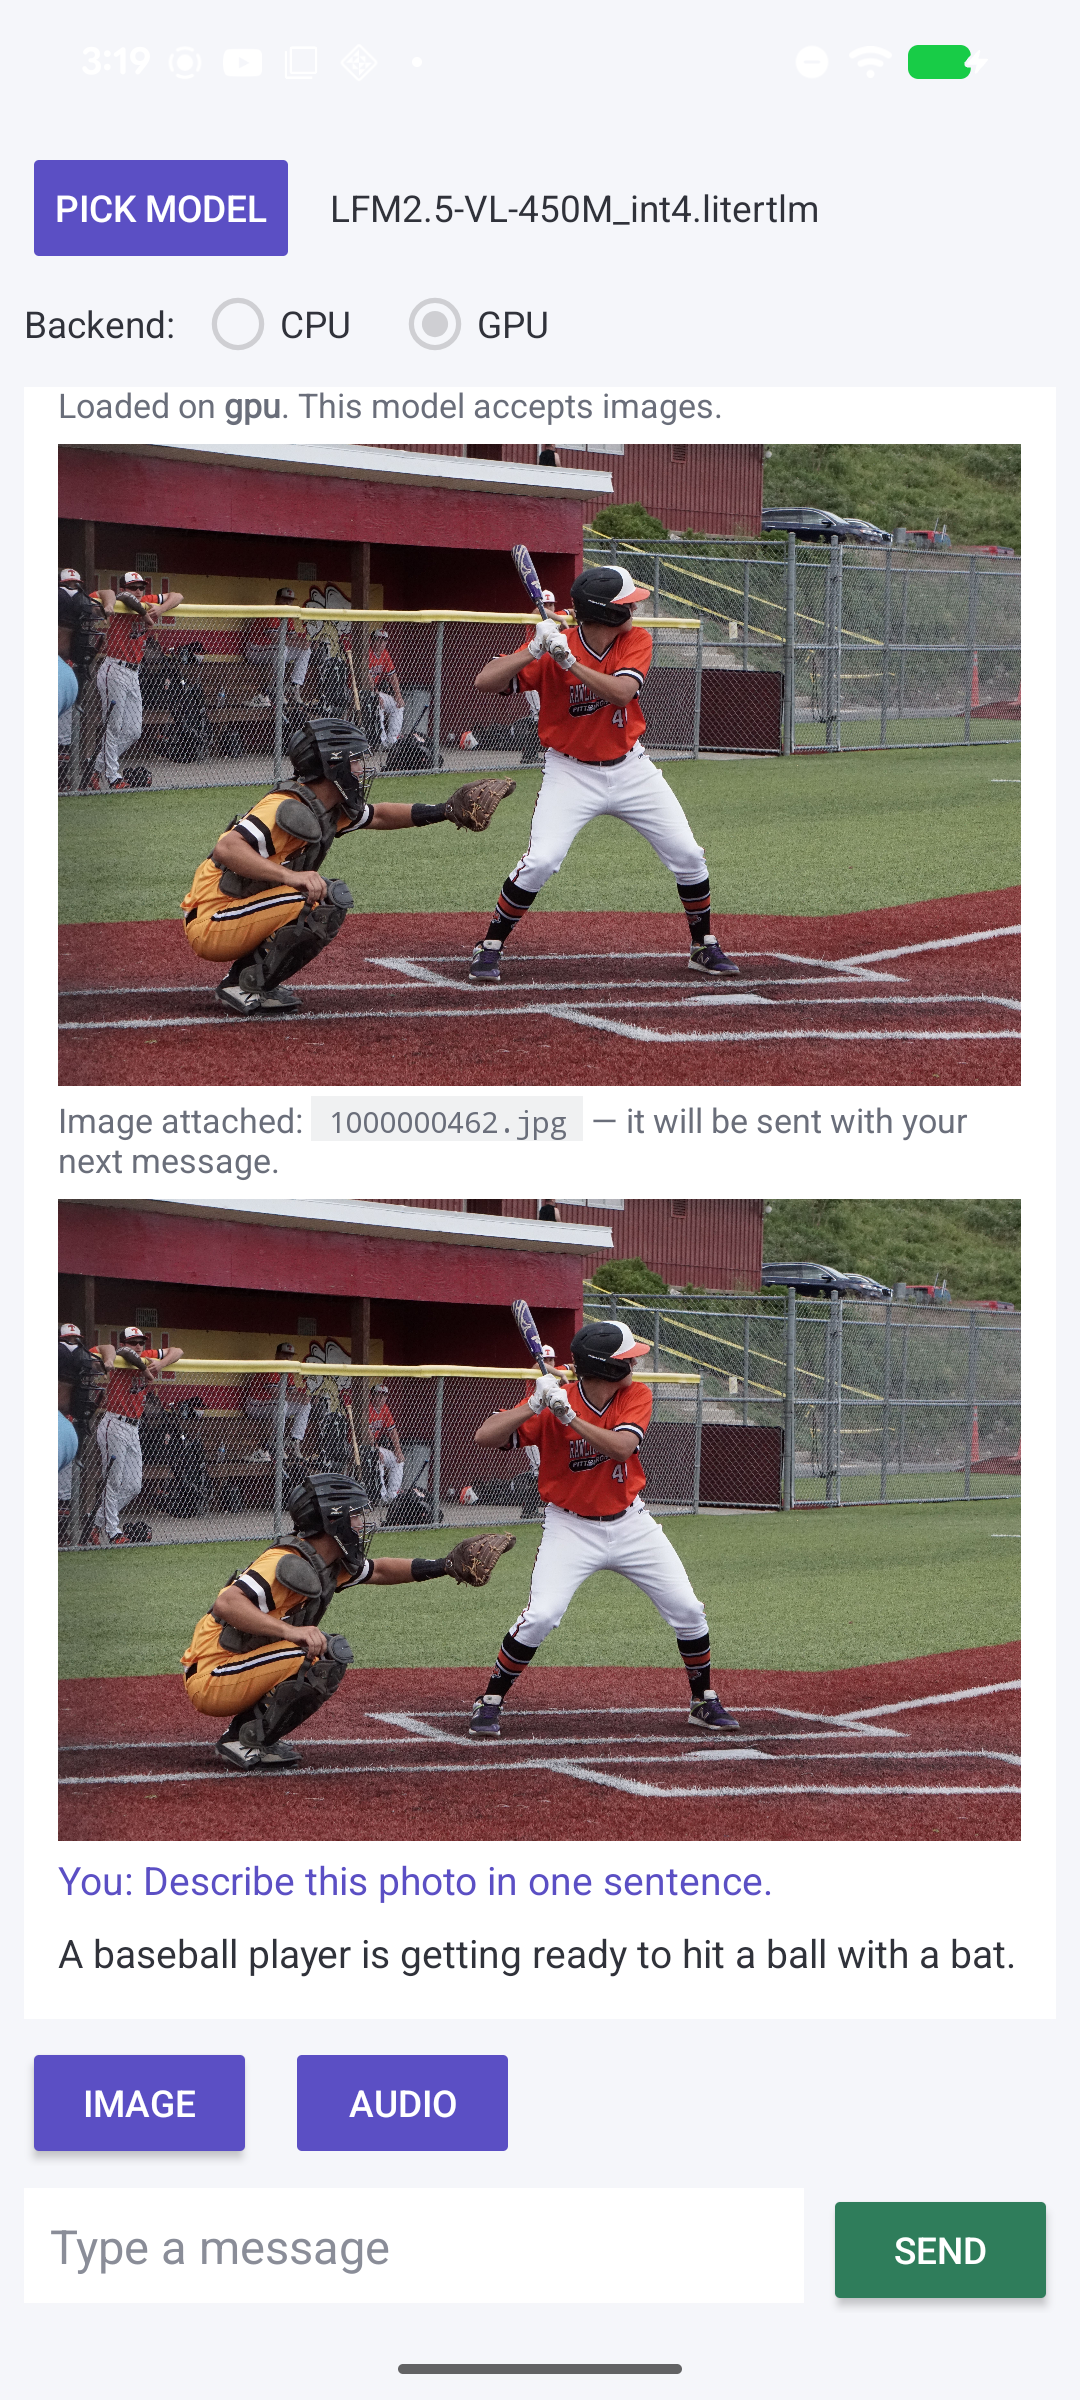
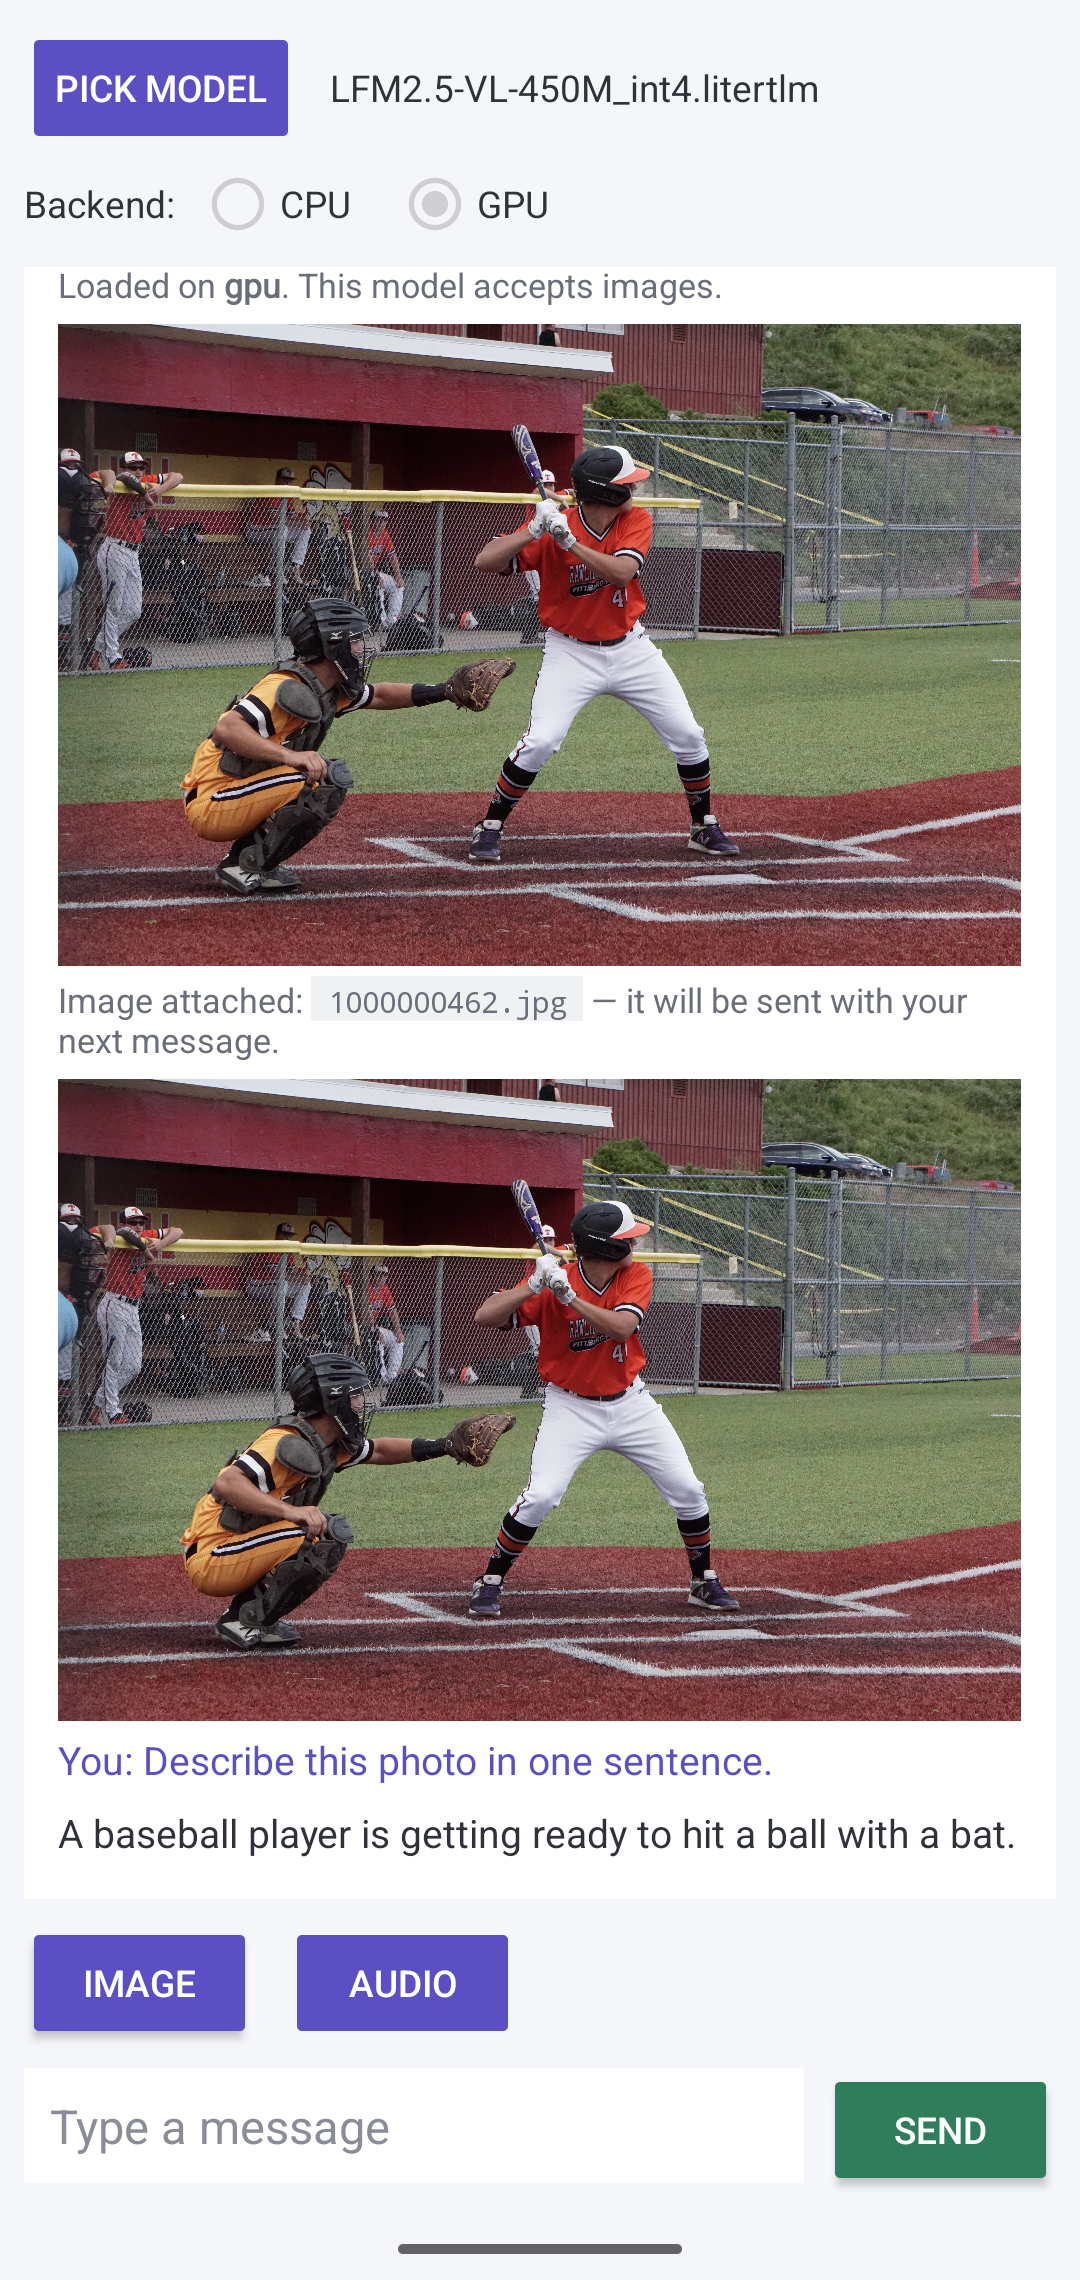
README: lead with what the app does and how to build it; move the details to docs/

diff --git a/README.md b/README.md
@@ -1,32 +1,34 @@
 # litertlm-chat-android
 
-A minimal Android chat app for **LiteRT-LM** (`.litertlm`) models — text **and images** — built with the official [`litertlm-android` Maven AAR](https://maven.google.com/web/index.html#com.google.ai.edge.litertlm:litertlm-android) (0.16.0) and Bazel 9.
+An Android app that loads a `.litertlm` model from the phone's storage and chats with it on the device, with text and photos. It is about 500 lines of Kotlin on Google's [`litertlm-android`](https://maven.google.com/web/index.html#com.google.ai.edge.litertlm:litertlm-android), short enough to read as sample code. [`ChatEngine.kt`](litert_lm_android_sample_app/src/main/java/com/litertlm/chat/ChatEngine.kt) is where a photo reaches the model.
 
-Why it exists: as of LiteRT-LM 0.16.0 there is no stock way to run **hybrid vision-language `.litertlm` bundles with image input on Android** — the Gallery app does not accept hybrid-architecture imports and the `litert_lm_main` CLI has no image flag. This app fills that gap with ~500 lines of Kotlin: pick any `.litertlm` from storage, pick a backend, attach a photo, chat.
+<p align="center">
+<img src="docs/screenshot.png" alt="The app on a Pixel 8a with LFM2.5-VL-450M, answering a question about a baseball photo" width="300">
+</p>
 
-Verified on a Pixel 8a across six models from [litert-community](https://huggingface.co/litert-community) — see the table below. For the LFM2.5-VL family the text graph runs on the **OpenCL GPU** with the vision encoder on CPU, streaming answers.
+I built it because, as of LiteRT-LM 0.16.0, the Gallery app did not accept hybrid vision-language models such as LFM2.5-VL, so I had no app to give one a photo on Android.
 
-![working screenshot](docs/screenshot.png)
+## Models I ran on a Pixel 8a
 
-## Verified models (Pixel 8a, this app, 2026-08-13)
+These worked in the app in August 2026, on `litertlm-android` 0.16.0:
 
-| Model (litert-community) | Size | Load result | Sample answer |
+| Model from [litert-community](https://huggingface.co/litert-community) | Size | Loaded on | Sample answer |
 |---|---|---|---|
-| LFM2.5-VL-450M int4 | 388 MB | **gpu** (text-GPU + vision-CPU) | "A baseball player is getting ready to hit a ball with a bat." |
-| LFM2.5-VL-1.6B int4 | 1.3 GB | **gpu** (text-GPU + vision-CPU) | "A baseball player is getting ready to swing his bat." |
-| FastVLM-0.5B | 1.16 GB | **gpu** | "A baseball player in an orange and white uniform … is poised to swing at a pitch, while a catcher … crouches behind him." |
-| SmolVLM2-500M | 361 MB | **gpu** | "A baseball player in a red uniform is swinging at a ball while a catcher in a yellow uniform watches." |
-| PaddleOCR-VL-1.6 | 1.39 GB | **gpu** | Sign OCR, all three lines: "CLOSED BACK AT 3 PM" |
-| Qwen2-VL-2B | 1.78 GB | process killed during engine init on BOTH backends (app memory budget on the 8 GB device; the CLI-measured numbers on its card are unaffected) | — |
-| LFM2.5-VL-3B int4 | 2.35 GB | not verified in-app: the test device's storage manager kept evicting the file at 97%+ disk. Budget ~2× the file size free (the app copies models to its cache) | — |
+| [LFM2.5-VL-450M](https://huggingface.co/litert-community/LFM2.5-VL-450M) int4 | 407 MB | `gpu`: text on the GPU, vision on the CPU | "A baseball player is getting ready to hit a ball with a bat." |
+| [LFM2.5-VL-1.6B](https://huggingface.co/litert-community/LFM2.5-VL-1.6B) int4 | 1.3 GB | `gpu`: text on the GPU, vision on the CPU | "A baseball player is getting ready to swing his bat." |
+| [FastVLM-0.5B](https://huggingface.co/litert-community/FastVLM-0.5B) | 1.16 GB | `gpu` | "A baseball player in an orange and white uniform … is poised to swing at a pitch, while a catcher … crouches behind him." |
+| [SmolVLM2-500M](https://huggingface.co/litert-community/SmolVLM2-500M) | 361 MB | `gpu` | "A baseball player in a red uniform is swinging at a ball while a catcher in a yellow uniform watches." |
+| [PaddleOCR-VL-1.6](https://huggingface.co/litert-community/PaddleOCR-VL-1.6) | 1.39 GB | `gpu` | Read all three lines of a sign: "CLOSED BACK AT 3 PM" |
 
-Notes: "gpu" is what the cascade actually loaded (the vision encoder runs on CPU for the LFM2.5-VL family — see Findings). Every model above was driven through the exact same flow: file picker → backend radio → photo attach → prompt.
+On the LFM2.5-VL models, only the top quarter of the photo reaches the model, so questions about position come out wrong ([LiteRT-LM#3246](https://github.com/google-ai-edge/LiteRT-LM/issues/3246), still open).
+
+The app copies each model to its cache, so leave free space of about twice the file size.
+
+Two larger models did not run in the app on this 8 GB phone. While loading Qwen2-VL-2B (1.78 GB), the app's process was killed, on both backends. I couldn't test LFM2.5-VL-3B int4 (2.35 GB): the phone's disk was over 97 % full, and its storage manager kept removing the file.
 
 ## Build
 
-Prereqs: Android SDK (API 35, build-tools 35.0.0), NDK **27.3.13750724**, `bazelisk`.
-
-Edit two machine-specific paths in `litert_lm_android_sample_app/MODULE.bazel` (`android_sdk_repository_extension.configure` and `android_ndk_repository_extension.configure`), then:
+There is no prebuilt APK. To build it with Bazel 9, you need the Android SDK with API 35 and build-tools 35.0.0, NDK 27.3.13750724, and `bazelisk`. In `litert_lm_android_sample_app/MODULE.bazel`, set `path` in `android_sdk_repository_extension.configure` and `android_ndk_repository_extension.configure` to your SDK and NDK. Then run:
 
 ```bash
 cd litert_lm_android_sample_app
@@ -36,24 +38,19 @@ bazelisk build //:litertlm_chat \
 adb install -r bazel-bin/litertlm_chat.apk
 ```
 
-macOS note: if your `xcode-select` points at an Xcode **beta**, bazel host-tool compiles fail with "absolute path inclusion(s)". The committed `.bazelrc` pins `DEVELOPER_DIR` to `/Applications/Xcode.app` for repo rules, target actions AND host actions (`--host_action_env` is the one people miss) — adjust or delete on other setups.
+I built it on a Mac, so `.bazelrc` sets `DEVELOPER_DIR` to `/Applications/Xcode.app/Contents/Developer`. If your Xcode is elsewhere, or you build on another system, change or delete those entries.
+
+`MODULE.bazel` takes the latest `litertlm-android` release, which is now newer than the 0.16.0 I ran, and I have not built against a newer one. To get 0.16.0, write `0.16.0` in place of `latest.release`. The LFM2.5-VL-450M, SmolVLM2-500M and PaddleOCR-VL-1.6 files on the Hub have been replaced since those runs, and their model cards say the new files need LiteRT-LM 0.19.0 or later on the Android GPU. With 0.16.0, use the earlier files the cards link.
 
 ## Usage
 
 1. Push or download a `.litertlm` model to the device (e.g. from [litert-community](https://huggingface.co/litert-community)).
 2. **Pick Model** → choose the file (it is copied to the app cache; 400 MB takes a few seconds).
-3. Pick **CPU** or **GPU**. The app tries, in order: multimodal on your chosen backend → text-GPU + vision-CPU → multimodal CPU → text-only CPU, and tells you what actually loaded.
+3. Pick **CPU** or **GPU**. If the model can't load that way, the app falls back step by step, down to text only on the CPU, and shows what loaded. If Android kills the process, there is no fallback.
 4. **Image** → pick a photo → type a question → **Send**.
 
-## Findings baked into the code (the parts that cost time)
-
-- **`audioBackend` must be omitted for bundles without an audio encoder.** Setting `audioBackend = Backend.CPU()` on a vision-only bundle fails conversation creation with `NOT_FOUND: TF_LITE_AUDIO_ENCODER_HW not found in the model` (`ChatEngine.kt`, stage 1 comment).
-- **The SigLIP2 vision encoder does not compile on the Pixel GPU delegate** (`vision_litert_compiled_model_executor.cc:247`), while the LFM2.5-VL *text* graph delegates fully to OpenCL (937/937 and 543/543 nodes measured via `litert_lm_main`). Hence the dedicated **text-GPU + vision-CPU** fallback stage — vision is a one-shot per image, so this split costs little.
-- `Contents` has no public constructor — use `Contents.of(...)`; `Content.Text` goes **before** `Content.ImageFile`.
-- Model/media files must be copied out of `content://` URIs into `cacheDir` with their real display names — the native engine inspects file extensions.
-
-This app was generated by following the `create-litert-lm-android-demo-app` agent skill that ships inside the [LiteRT-LM repository](https://github.com/google-ai-edge/LiteRT-LM) (Maven scenario); `task.md` and the three `compliance_review_*.md` files are that skill's audit trail.
+The **Audio** button is disabled, because audio isn't wired up yet. The runtime problems I worked around are in [the details](docs/details.md).
 
 ## License
 
-Apache-2.0. Model files are licensed by their publishers (the LFM2.5-VL family is under the LFM Open License v1.0).
+Apache-2.0 for the code. Each model has its publisher's license, and the LFM2.5-VL family is under the LFM Open License v1.0.

diff --git a/docs/details.md b/docs/details.md
@@ -1,0 +1,54 @@
+# Details
+
+This page is the earlier README, from 2026-08-13, on `litertlm-android` 0.16.0. The [README](../README.md) has the current summary.
+
+A minimal Android chat app for **LiteRT-LM** (`.litertlm`) models — text **and images** — built with the official [`litertlm-android` Maven AAR](https://maven.google.com/web/index.html#com.google.ai.edge.litertlm:litertlm-android) (0.16.0) and Bazel 9.
+
+Why it exists: as of LiteRT-LM 0.16.0 there is no stock way to run **hybrid vision-language `.litertlm` bundles with image input on Android** — the Gallery app does not accept hybrid-architecture imports and the `litert_lm_main` CLI has no image flag. This app fills that gap with ~500 lines of Kotlin: pick any `.litertlm` from storage, pick a backend, attach a photo, chat.
+
+Verified on a Pixel 8a across six models from [litert-community](https://huggingface.co/litert-community) — see the table below. For the LFM2.5-VL family the text graph runs on the **OpenCL GPU** with the vision encoder on CPU, streaming answers.
+
+![working screenshot](screenshot.png)
+
+## Verified models (Pixel 8a, this app, 2026-08-13)
+
+| Model (litert-community) | Size | Load result | Sample answer |
+|---|---|---|---|
+| LFM2.5-VL-450M int4 | 407 MB | **gpu** (text-GPU + vision-CPU) | "A baseball player is getting ready to hit a ball with a bat." |
+| LFM2.5-VL-1.6B int4 | 1.3 GB | **gpu** (text-GPU + vision-CPU) | "A baseball player is getting ready to swing his bat." |
+| FastVLM-0.5B | 1.16 GB | **gpu** | "A baseball player in an orange and white uniform … is poised to swing at a pitch, while a catcher … crouches behind him." |
+| SmolVLM2-500M | 361 MB | **gpu** | "A baseball player in a red uniform is swinging at a ball while a catcher in a yellow uniform watches." |
+| PaddleOCR-VL-1.6 | 1.39 GB | **gpu** | Sign OCR, all three lines: "CLOSED BACK AT 3 PM" |
+| Qwen2-VL-2B | 1.78 GB | process killed during engine init on BOTH backends (app memory budget on the 8 GB device; the CLI-measured numbers on its card are unaffected) | — |
+| LFM2.5-VL-3B int4 | 2.35 GB | not verified in-app: the test device's storage manager kept evicting the file at 97%+ disk. Budget ~2× the file size free (the app copies models to its cache) | — |
+
+Notes: "gpu" is what the cascade actually loaded (the vision encoder runs on CPU for the LFM2.5-VL family — see Findings). Every model above was driven through the exact same flow: file picker → backend radio → photo attach → prompt.
+
+## Build
+
+Prereqs: Android SDK (API 35, build-tools 35.0.0), NDK **27.3.13750724**, `bazelisk`.
+
+Edit two machine-specific paths in `litert_lm_android_sample_app/MODULE.bazel` (`android_sdk_repository_extension.configure` and `android_ndk_repository_extension.configure`), then:
+
+```bash
+cd litert_lm_android_sample_app
+bazelisk build //:litertlm_chat \
+  --android_platforms=@rules_android//:arm64-v8a \
+  --cxxopt=-std=c++17 --host_cxxopt=-std=c++17
+adb install -r bazel-bin/litertlm_chat.apk
+```
+
+macOS note: if your `xcode-select` points at an Xcode **beta**, bazel host-tool compiles fail with "absolute path inclusion(s)". The committed `.bazelrc` pins `DEVELOPER_DIR` to `/Applications/Xcode.app` for repo rules, target actions AND host actions (`--host_action_env` is the one people miss) — adjust or delete on other setups.
+
+## Findings baked into the code (the parts that cost time)
+
+- **`audioBackend` must be omitted for bundles without an audio encoder.** Setting `audioBackend = Backend.CPU()` on a vision-only bundle fails conversation creation with `NOT_FOUND: TF_LITE_AUDIO_ENCODER_HW not found in the model` (`ChatEngine.kt`, stage 1 comment).
+- **The SigLIP2 vision encoder does not compile on the Pixel GPU delegate** (`vision_litert_compiled_model_executor.cc:247`), while the LFM2.5-VL *text* graph delegates fully to OpenCL (937/937 and 543/543 nodes measured via `litert_lm_main`). Hence the dedicated **text-GPU + vision-CPU** fallback stage — vision is a one-shot per image, so this split costs little.
+- `Contents` has no public constructor — use `Contents.of(...)`; `Content.Text` goes **before** `Content.ImageFile`.
+- Model/media files must be copied out of `content://` URIs into `cacheDir` with their real display names — the native engine inspects file extensions.
+
+This app was generated by following the `create-litert-lm-android-demo-app` agent skill that ships inside the [LiteRT-LM repository](https://github.com/google-ai-edge/LiteRT-LM) (Maven scenario); `task.md` and the three `compliance_review_*.md` files are that skill's audit trail.
+
+## Backend fallback
+
+The app tries, in order: multimodal on your chosen backend → text-GPU + vision-CPU → multimodal CPU → text-only CPU, and tells you what actually loaded.
